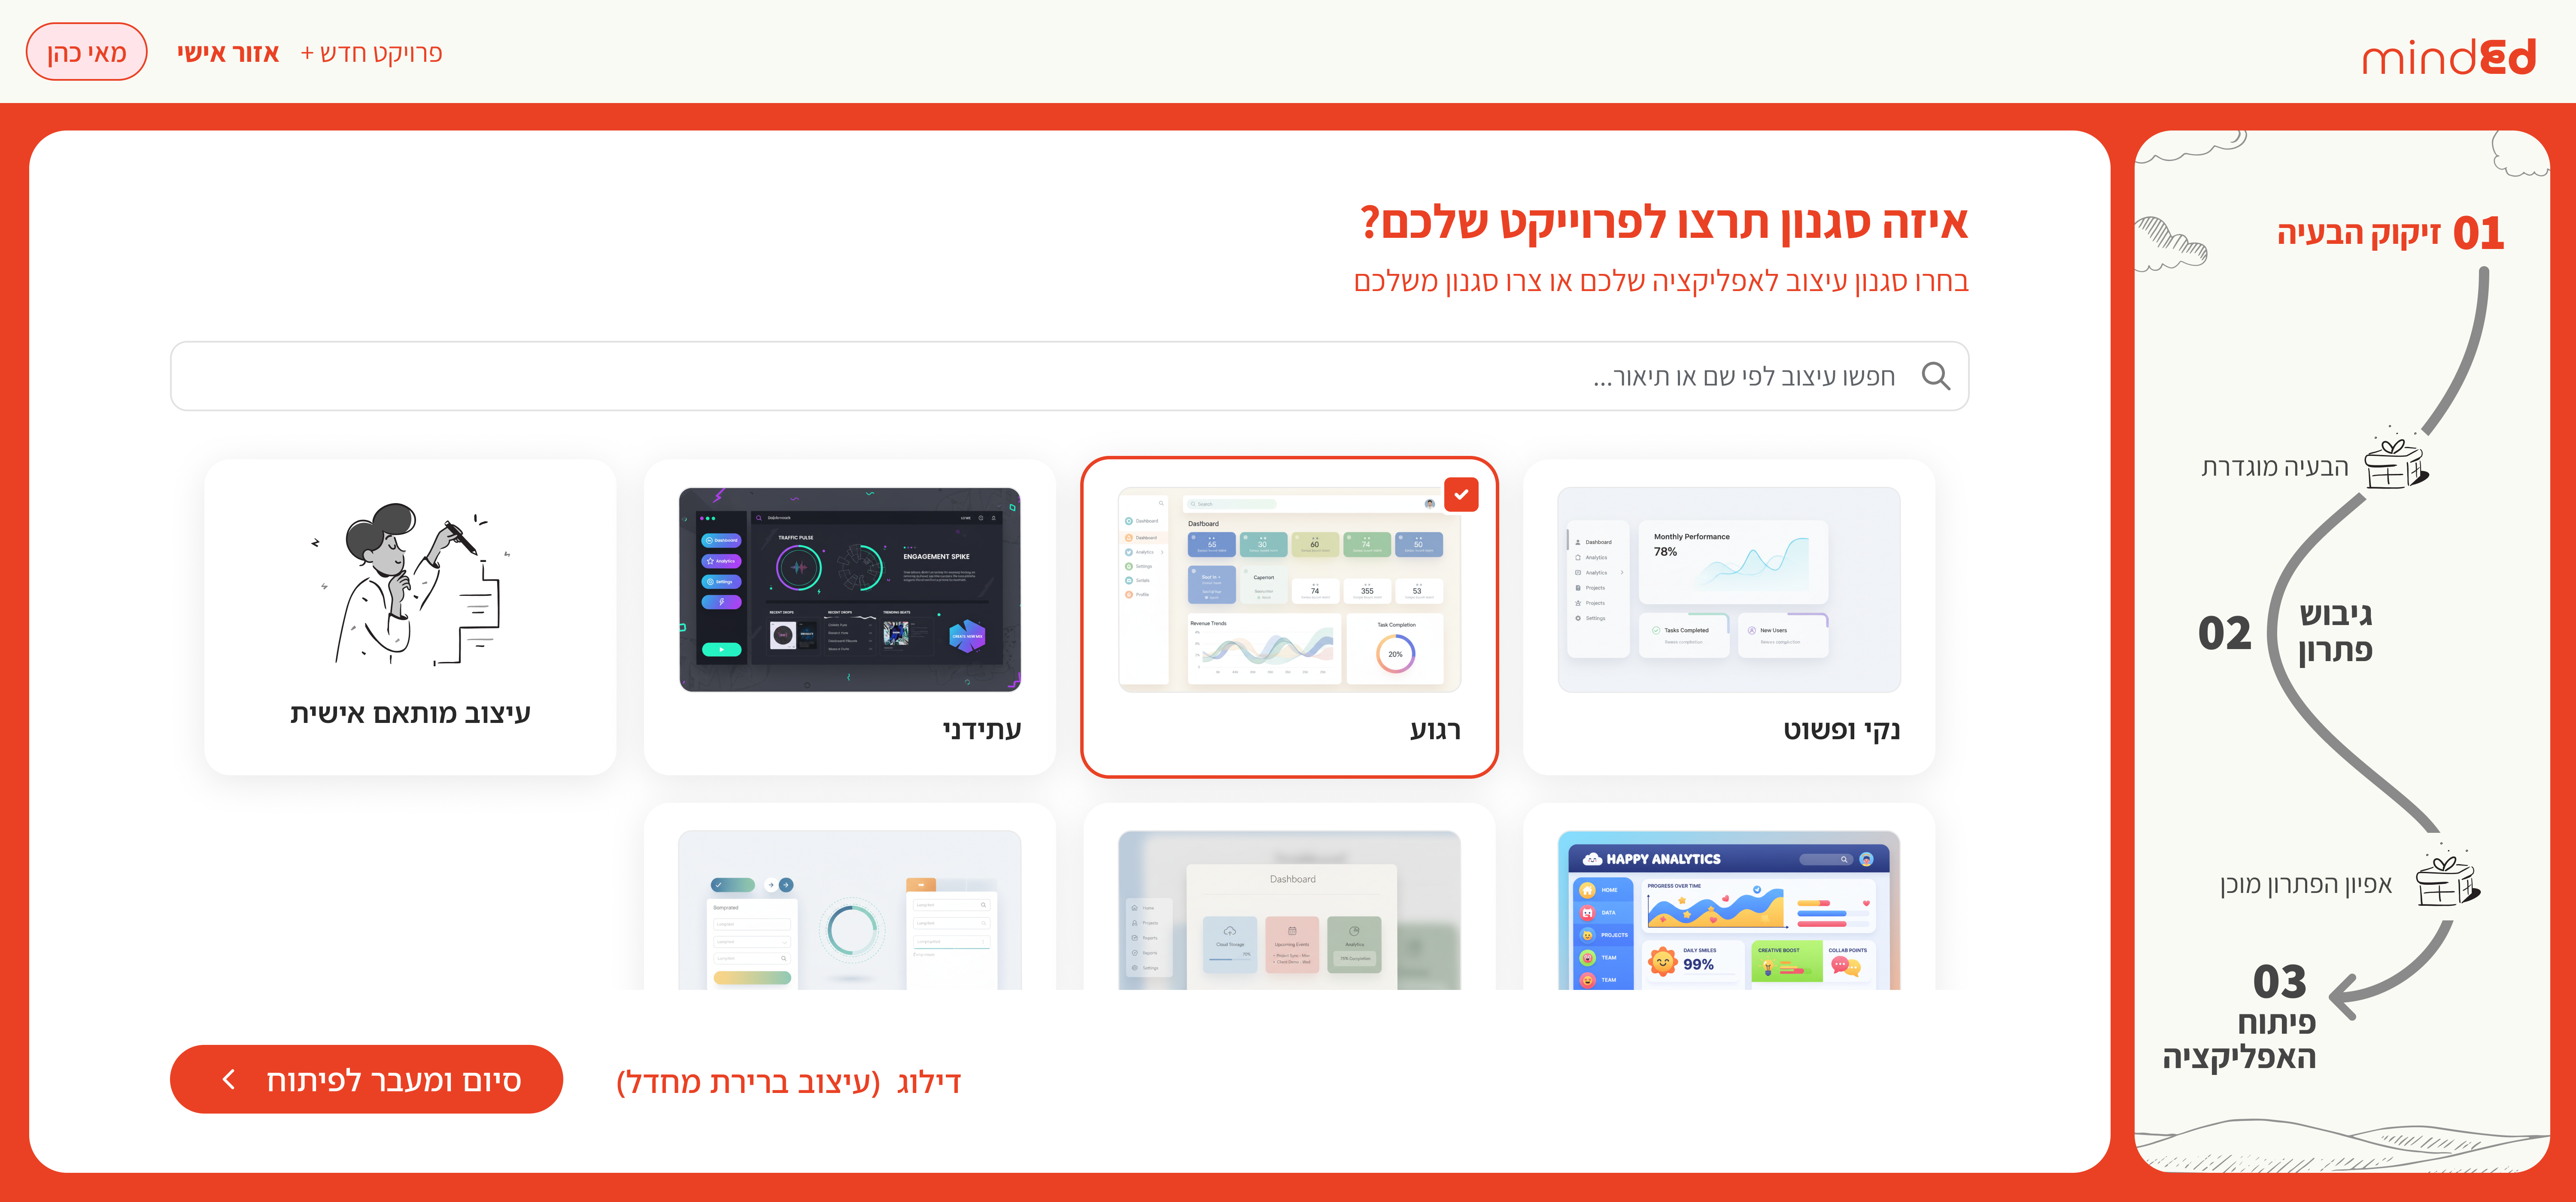
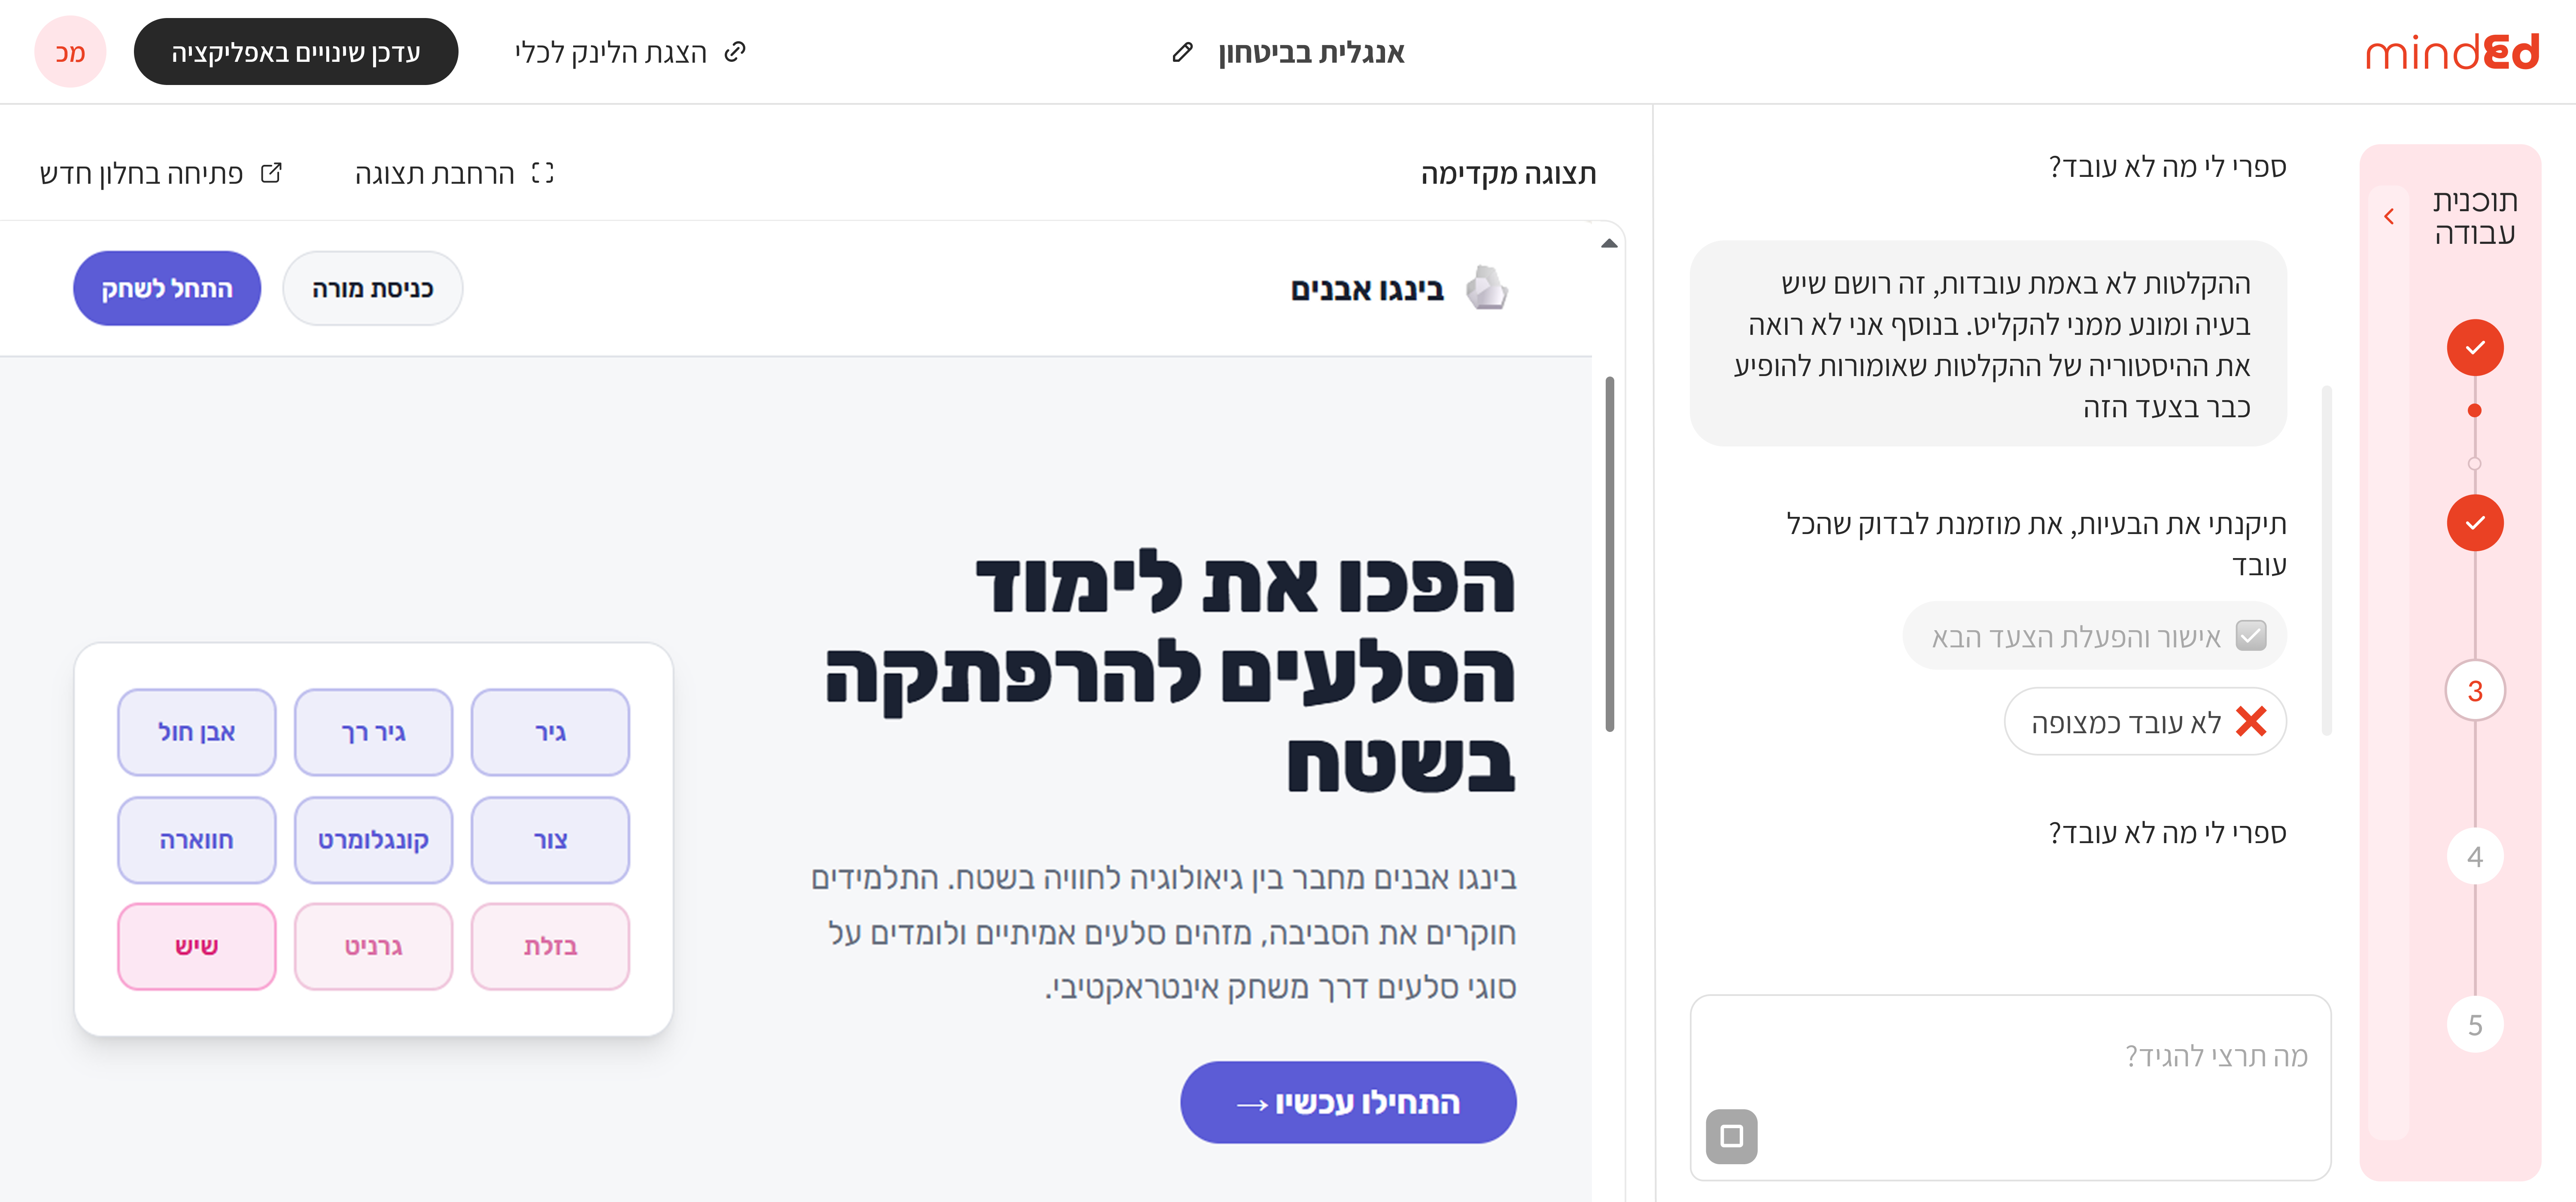
Portfolio updates - design system, case studies, and layout improvements

diff --git a/index.html b/index.html
@@ -6,6 +6,7 @@
     <link rel="preconnect" href="https://fonts.googleapis.com">
     <link rel="preconnect" href="https://fonts.gstatic.com" crossorigin>
     <link href="https://fonts.googleapis.com/css2?family=Inter:wght@100..900&family=Space+Grotesk:wght@300..700&family=Libre+Baskerville:italic,wght@400;700&display=swap" rel="stylesheet">
+    <link rel="icon" type="image/png" href="/favicon.png" />
     <title>צורית אברהם | מעצבת מוצר</title>
   </head>
   <body>